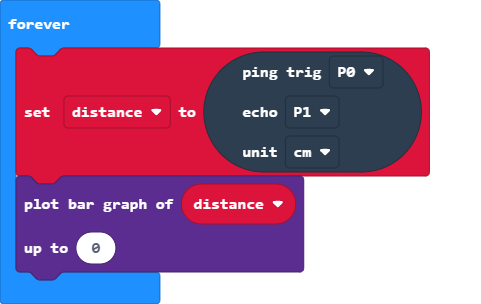
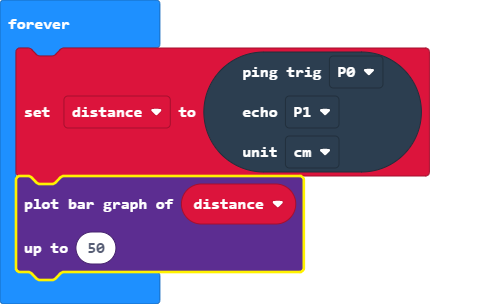
Update main.blocks, main.ts

Changed region(s): [[0.0312, 0.5625, 0.6549, 0.9474], [0.1559, 0.7993, 0.2183, 0.8289]]

diff --git a/main.ts b/main.ts
@@ -7,6 +7,6 @@ basic.forever(function () {
     )
     led.plotBarGraph(
     distance,
-    0
+    50
     )
 })
